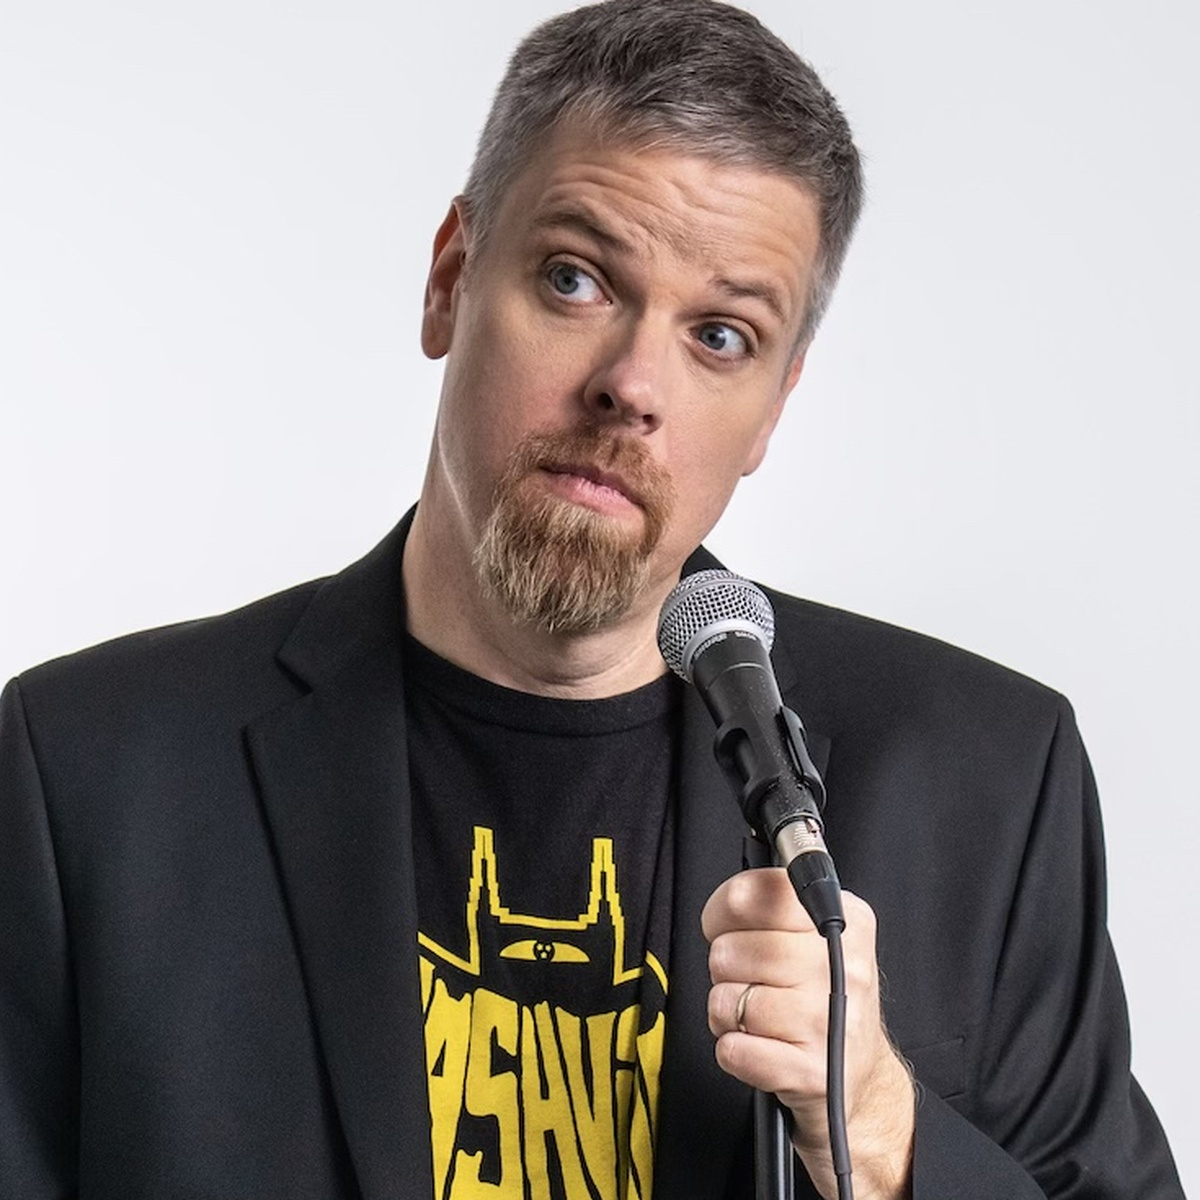
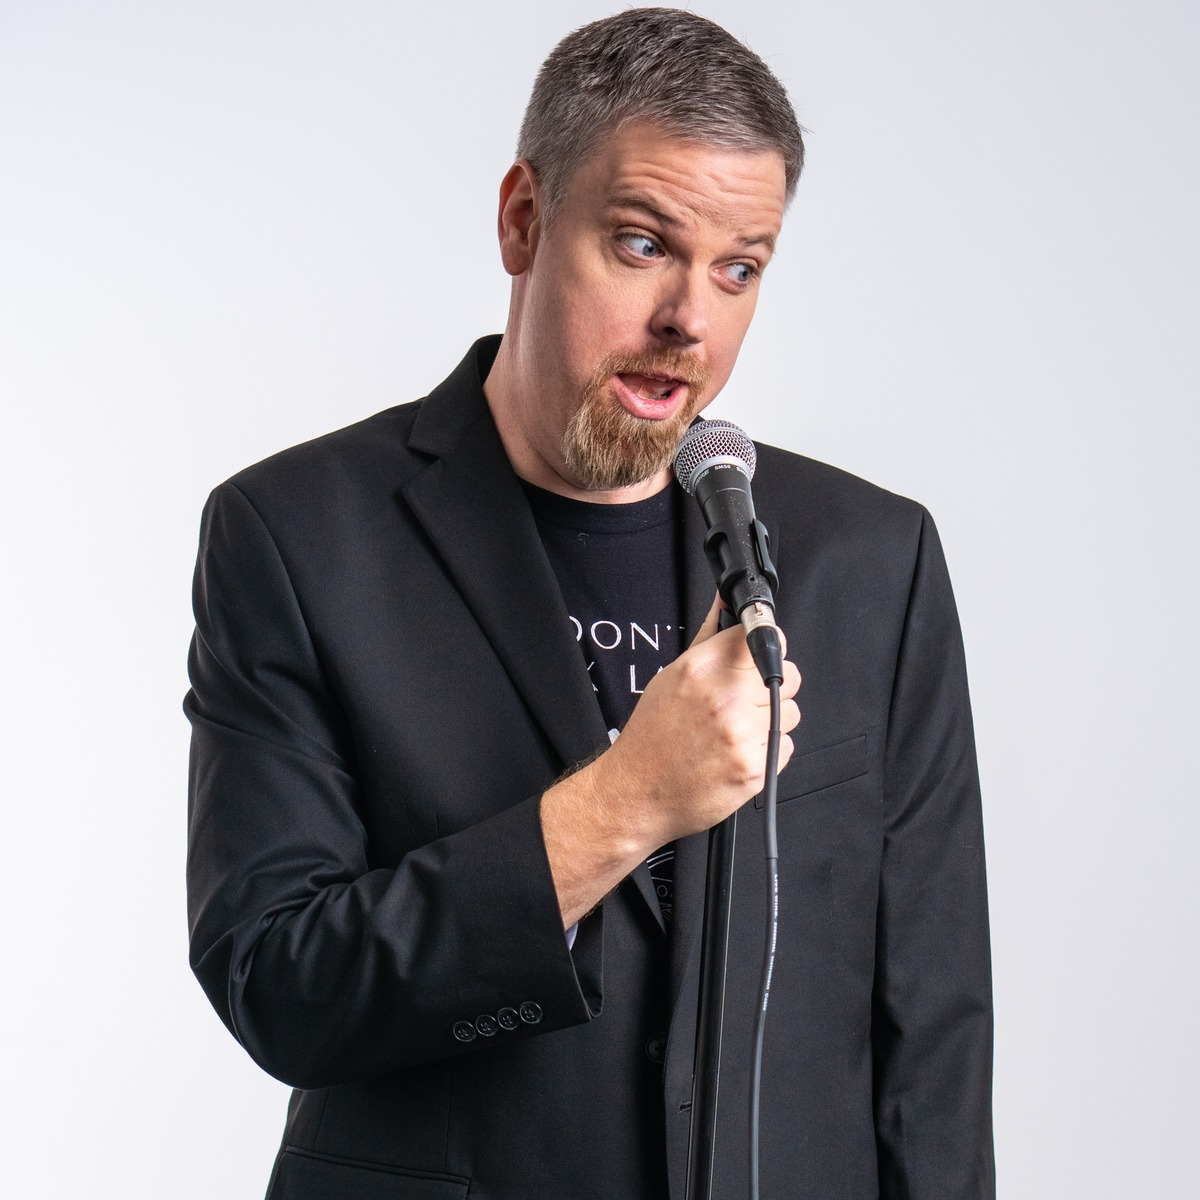
Add files via upload

diff --git a/about/index.html b/about/index.html
@@ -101,14 +101,14 @@
       <div class="container">
         <div class="speaker-feature">
           <div class="speaker-photo card flat">
-            <img src="/assets/images/speaker-placeholder.svg" alt="Guest speaker placeholder image">
+            <img src="/assets/images/jonnie-w.jpg" alt="Jonnie W. guest speaker photo">
           </div>
           <div class="card speaker-copy">
             <div class="eyebrow">Guest speaker</div>
-            <h2>Featured speaker announcement coming soon.</h2>
-            <p>The guest speaker for Man Camp South 2027 is still being finalized. A confirmed speaker profile and photo will be added here once details are officially announced.</p>
-            <p>Until then, the weekend remains centered on fellowship, biblical teaching, worship, and intentional community for every man attending.</p>
-            <div class="notice">Guest speaker details are being finalized and will be added here as confirmations are completed.</div>
+            <h2>Jonnie W.</h2>
+            <p>Jonnie W. is a nationally touring comedian known for his hilarious blend of storytelling, offbeat stand-up, and music. His live show has made him a favorite in comedy clubs, churches, and conferences across the country.</p>
+            <p>He has appeared on Amazon Prime and SiriusXM, released a Dry Bar Comedy special with more than 10 million views, been featured on the Grand Ole Opry, and joined Nate Bargatze on the nationwide Big Dumb Eyes Tour.</p>
+            <div class="notice">Learn more about Jonnie at <a href="https://www.jonniew.com/" target="_blank" rel="noopener">jonniew.com</a>.</div>
           </div>
         </div>
       </div>

diff --git a/about.html b/about.html
@@ -101,14 +101,14 @@
       <div class="container">
         <div class="speaker-feature">
           <div class="speaker-photo card flat">
-            <img src="assets/images/speaker-placeholder.svg" alt="Guest speaker placeholder image">
+            <img src="assets/images/jonnie-w.jpg" alt="Jonnie W. guest speaker photo">
           </div>
           <div class="card speaker-copy">
             <div class="eyebrow">Guest speaker</div>
-            <h2>Featured speaker announcement coming soon.</h2>
-            <p>The guest speaker for Man Camp South 2027 is still being finalized. A confirmed speaker profile and photo will be added here once details are officially announced.</p>
-            <p>Until then, the weekend remains centered on fellowship, biblical teaching, worship, and intentional community for every man attending.</p>
-            <div class="notice">Guest speaker details are being finalized and will be added here as confirmations are completed.</div>
+            <h2>Jonnie W.</h2>
+            <p>Jonnie W. is a nationally touring comedian known for his hilarious blend of storytelling, offbeat stand-up, and music. His live show has made him a favorite in comedy clubs, churches, and conferences across the country.</p>
+            <p>He has appeared on Amazon Prime and SiriusXM, released a Dry Bar Comedy special with more than 10 million views, been featured on the Grand Ole Opry, and joined Nate Bargatze on the nationwide Big Dumb Eyes Tour.</p>
+            <div class="notice">Learn more about Jonnie at <a href="https://www.jonniew.com/" target="_blank" rel="noopener">jonniew.com</a>.</div>
           </div>
         </div>
       </div>
